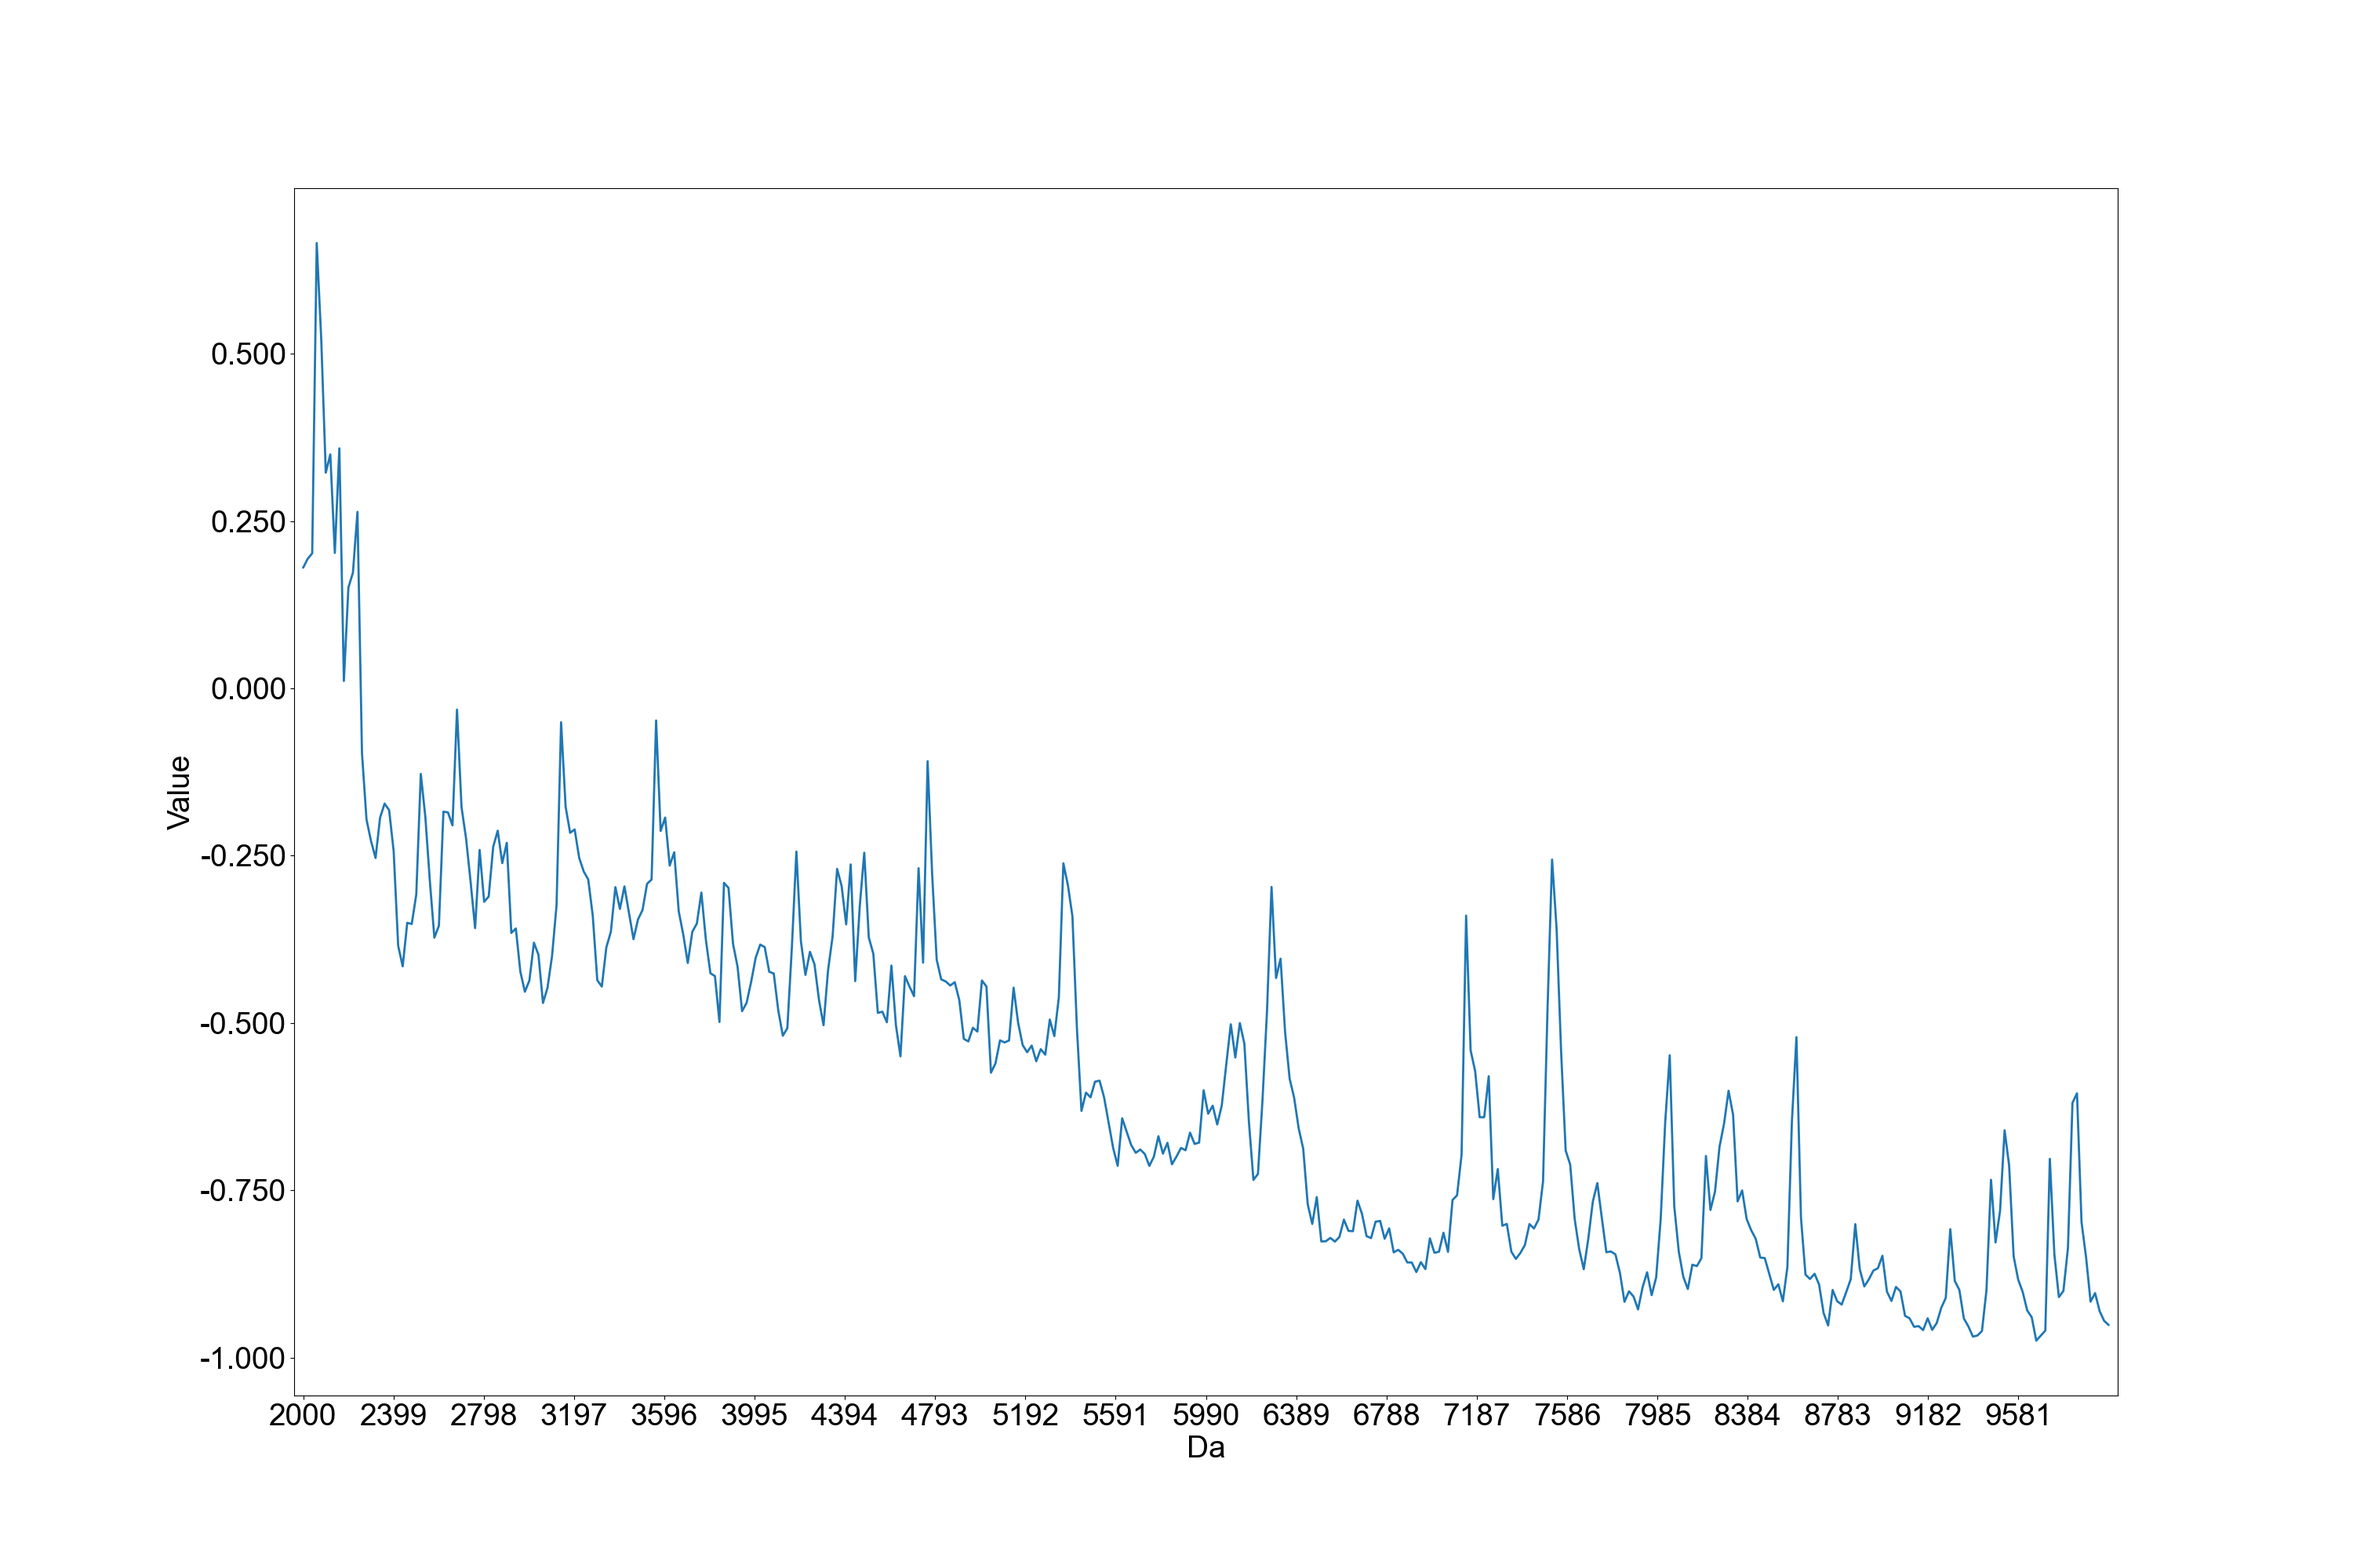
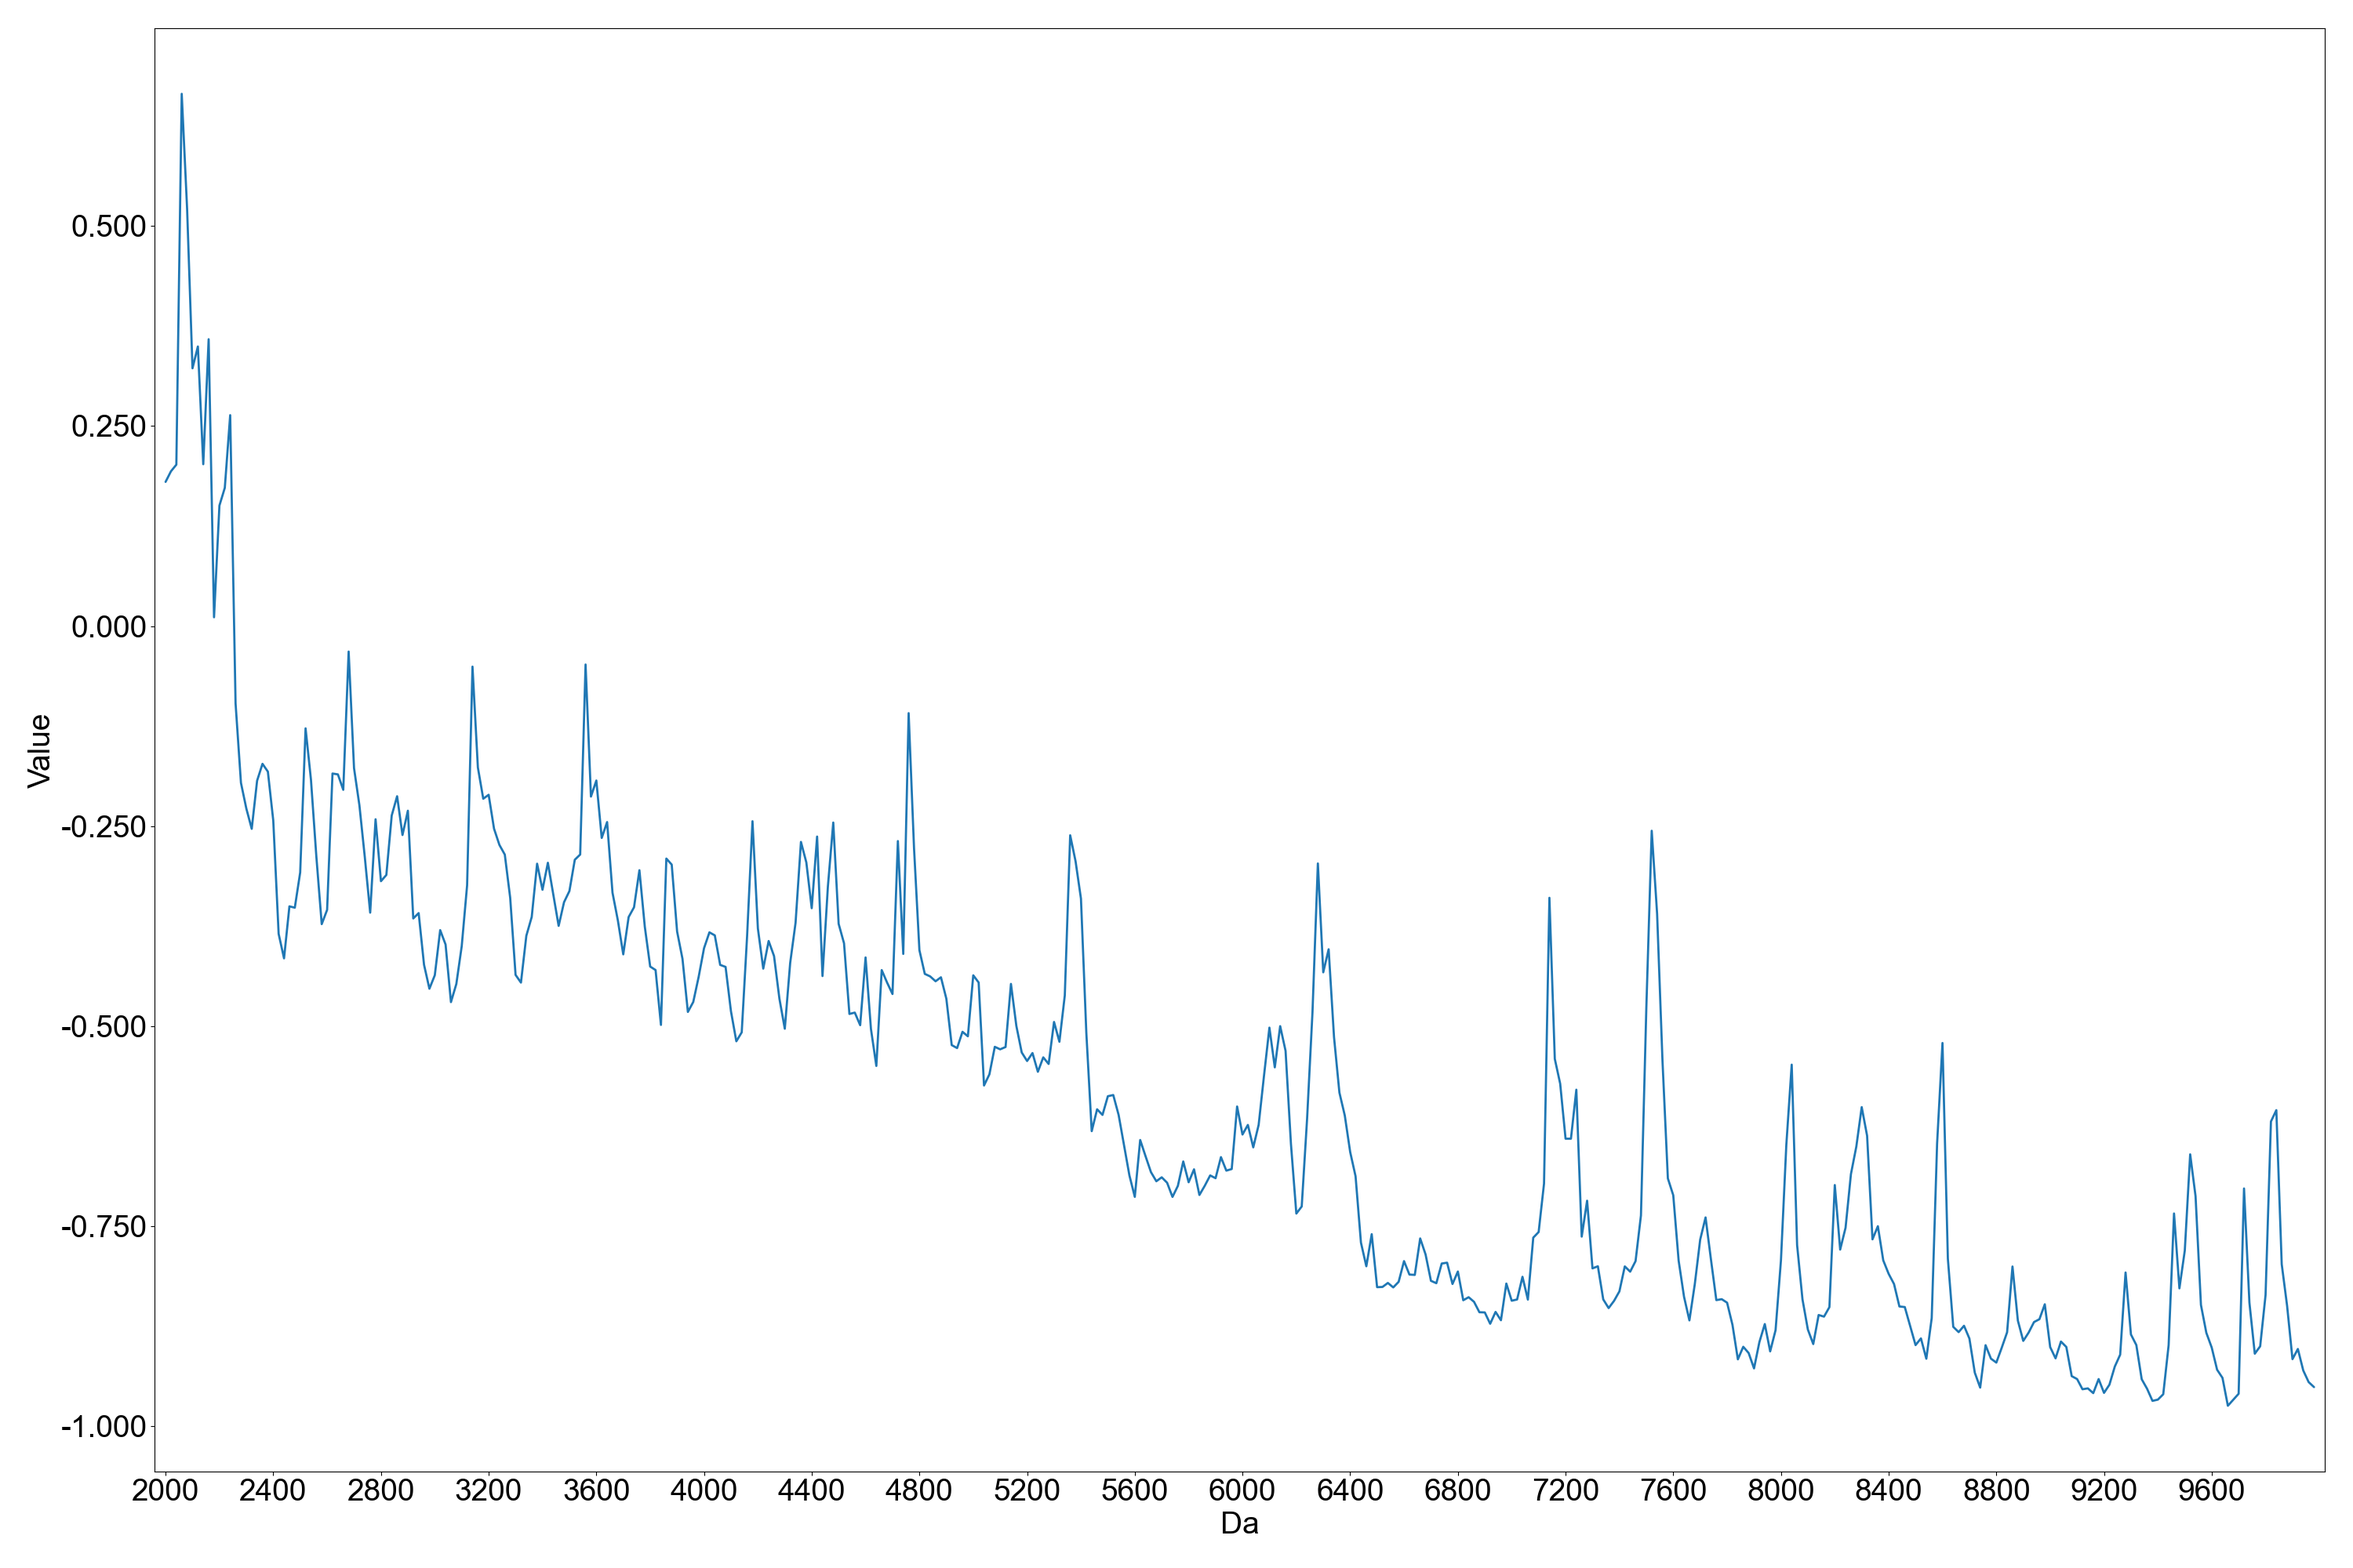
Graph file selected

diff --git a/program/classification/visualization_utils.py b/program/classification/visualization_utils.py
@@ -1,14 +1,15 @@
-import pandas as pd
 import numpy as np
 import matplotlib.pyplot as plt
 import seaborn as sns
 import matplotlib.ticker as mticker
+import io
 
+import PIL
 
-LINEWIDTH = 2
-LABEL_SIZE = 28
-AXIS_TICK_SIZE = 28
-LEGEND_SIZE = '24'
+LINEWIDTH = 1
+LABEL_SIZE = 8
+AXIS_TICK_SIZE = 8
+LEGEND_SIZE = '8'
 Y_LABEL_FORMAT = '{:,.3f}'
 BASE_PALETTE = sns.color_palette("tab20")
 
@@ -20,6 +21,7 @@ def melt_data(X):
     return melt_X
 
 
+
 def spectrometry(X):
     melt_X = melt_data(X)
     plt.clf()
@@ -27,9 +29,9 @@ def spectrometry(X):
 
     lower_limit = int(X.columns[0])
     upper_limit = int(X.columns[-1])
-    jump = int((upper_limit - lower_limit + 1) / 20)
+    jump = int((upper_limit - lower_limit + 20) / 20)
 
-    fig, axes = plt.subplots(1, 1, figsize=(30, 20))
+    fig, axes = plt.subplots(1, 1, figsize=(8, 4))
     
     sns.set_theme(font_scale = 2)
     line = sns.lineplot(ax=axes, data=melt_X, x="Da", y="Value", linewidth=LINEWIDTH)
@@ -37,11 +39,20 @@ def spectrometry(X):
     line.set_xlabel("Da", fontsize=LABEL_SIZE)
     line.set_ylabel("Value", fontsize=LABEL_SIZE)
 
-    line.set_xticklabels(axes.get_xticks(), size=AXIS_TICK_SIZE)
+    line.set_xticks(np.arange(lower_limit, upper_limit, jump))
+    line.set_xticklabels(np.arange(lower_limit, upper_limit, jump), size=AXIS_TICK_SIZE)
     ticks_loc = axes.get_yticks()
     axes.yaxis.set_major_locator(mticker.FixedLocator(ticks_loc))
     axes.set_yticklabels([Y_LABEL_FORMAT.format(x) for x in ticks_loc], size=AXIS_TICK_SIZE)
 
     axes.margins(x=0.005)
 
-    plt.savefig("test.png")
+    fig.tight_layout()
+
+    temp_buf = io.BytesIO()
+    plt.savefig(temp_buf, format='png', bbox_inches='tight')
+    im = PIL.Image.open(temp_buf)
+
+    return im
+
+    # plt.savefig("test.png")

diff --git a/program/interface/ui/ui_start_window.py b/program/interface/ui/ui_start_window.py
@@ -57,20 +57,15 @@ class Ui_Start(object):
 
         self.horizontalLayout_9 = QHBoxLayout()
         self.horizontalLayout_9.setObjectName(u"horizontalLayout_9")
-        self.horizontalSpacer_10 = QSpacerItem(40, 20, QSizePolicy.Policy.Expanding, QSizePolicy.Policy.Minimum)
 
-        self.horizontalLayout_9.addItem(self.horizontalSpacer_10)
+        self.ms_image = QLabel(self.centralwidget)
+        self.ms_image.setObjectName(u"label")
+        self.ms_image.setScaledContents(True)
+        # self.ms_image.setMaximumWidth(600)
+        # self.ms_image.setMaximumHeight(400)
 
-        self.label = QLabel(self.centralwidget)
-        self.label.setObjectName(u"label")
-        self.label.setPixmap(QPixmap(u"C:/Users/elias/Downloads/aaa.png"))
-        self.label.setScaledContents(True)
 
-        self.horizontalLayout_9.addWidget(self.label)
-
-        self.horizontalSpacer_9 = QSpacerItem(40, 20, QSizePolicy.Policy.Expanding, QSizePolicy.Policy.Minimum)
-
-        self.horizontalLayout_9.addItem(self.horizontalSpacer_9)
+        self.horizontalLayout_9.addWidget(self.ms_image)
 
 
         self.verticalLayout_2.addLayout(self.horizontalLayout_9)
@@ -275,7 +270,7 @@ class Ui_Start(object):
         Start.setWindowTitle(QCoreApplication.translate("Start", u"MainWindow", None))
         self.microscope_image.setText("")
         self.title.setText(QCoreApplication.translate("Start", u"MALDI-TOF MS AST", None))
-        self.label.setText("")
+        self.ms_image.setText("")
         self.bacteria_image.setText("")
         self.bacteria_header.setText(QCoreApplication.translate("Start", u"Bacteria", None))
         self.bacteria_select.setCurrentText("")

diff --git a/program/interface/start_win.py b/program/interface/start_win.py
@@ -3,12 +3,16 @@ from PySide6.QtWidgets import QApplication, QMainWindow, QFileDialog
 from PySide6.QtCore import QFile
 from PySide6.QtGui import QPixmap, QIcon
 
+from PIL.ImageQt import ImageQt
+
 from .ui.ui_start_window import Ui_Start
 
 from .config_win import Config
 from .results_win import Results
 
 from classification.classificator import Classificator
+
+
 
 class MainWindow(QMainWindow):
     def __init__(self):
@@ -33,9 +37,10 @@ class MainWindow(QMainWindow):
             path = self.file_address.split("/")
             file = path[len(path)-1]
             self.ui.file_name.setText(file)
-            self.classificator.visualize(self.file_address)
-            # pixmap = QPixmap(self.image_addresses[0])
-
+            im = self.classificator.visualize(self.file_address)
+            qim = ImageQt(im)
+            pix = QPixmap.fromImage(qim)
+            self.ui.ms_image.setPixmap(pix)
 
     def deploy_config(self):
         self.config = Config()

diff --git a/program/classification/classificator.py b/program/classification/classificator.py
@@ -1,5 +1,5 @@
-from processing_utils import preprocess
-from visualization_utils import spectrometry
+from .processing_utils import preprocess
+from .visualization_utils import spectrometry
 
 
 class Classificator():
@@ -7,14 +7,13 @@ class Classificator():
         self.bacteria = bacteria
         self.algorithm = algorithm
         self.bin_size = bin_size
-
         self.model = "abc"
     
     def visualize(self, file):
         X = preprocess(file, self.bacteria, self.bin_size)
         if len(X) > 1:
             X = X.iloc[[0]]
-        spectrometry(X)
+        return spectrometry(X)
         
 
     def classify(self, file):
@@ -23,4 +22,4 @@ class Classificator():
 
 
 
-Classificator().visualize("D:/Development/Projects/Probabilistic_MALDI-TOF_AST/data/program/k_pneumoniae_sample.csv")
+# Classificator().visualize("D:/Development/Projects/Probabilistic_MALDI-TOF_AST/data/program/k_pneumoniae_sample.csv")
